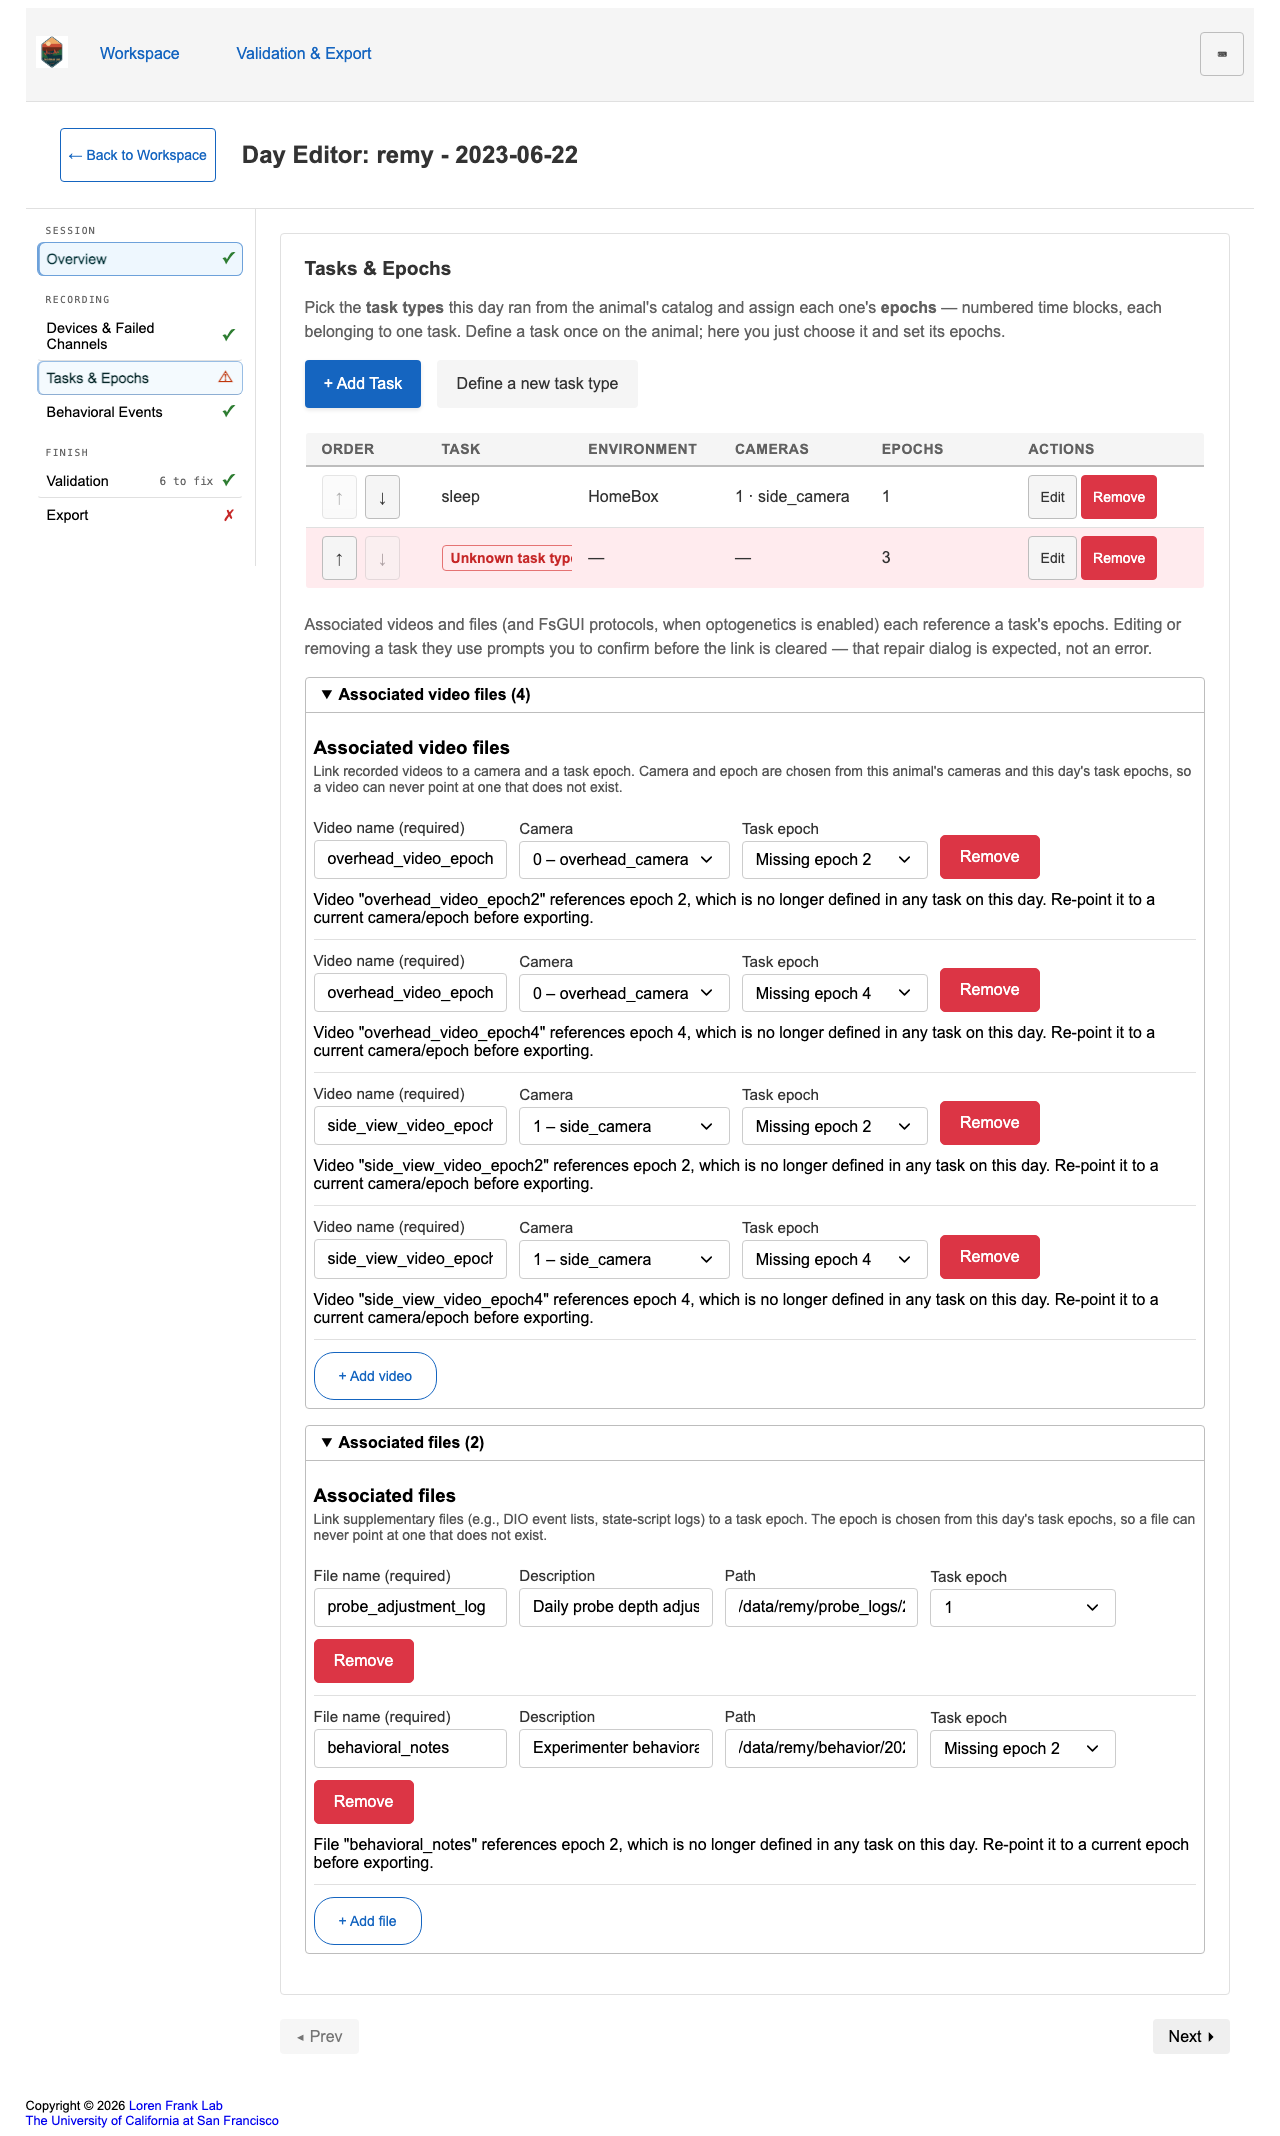
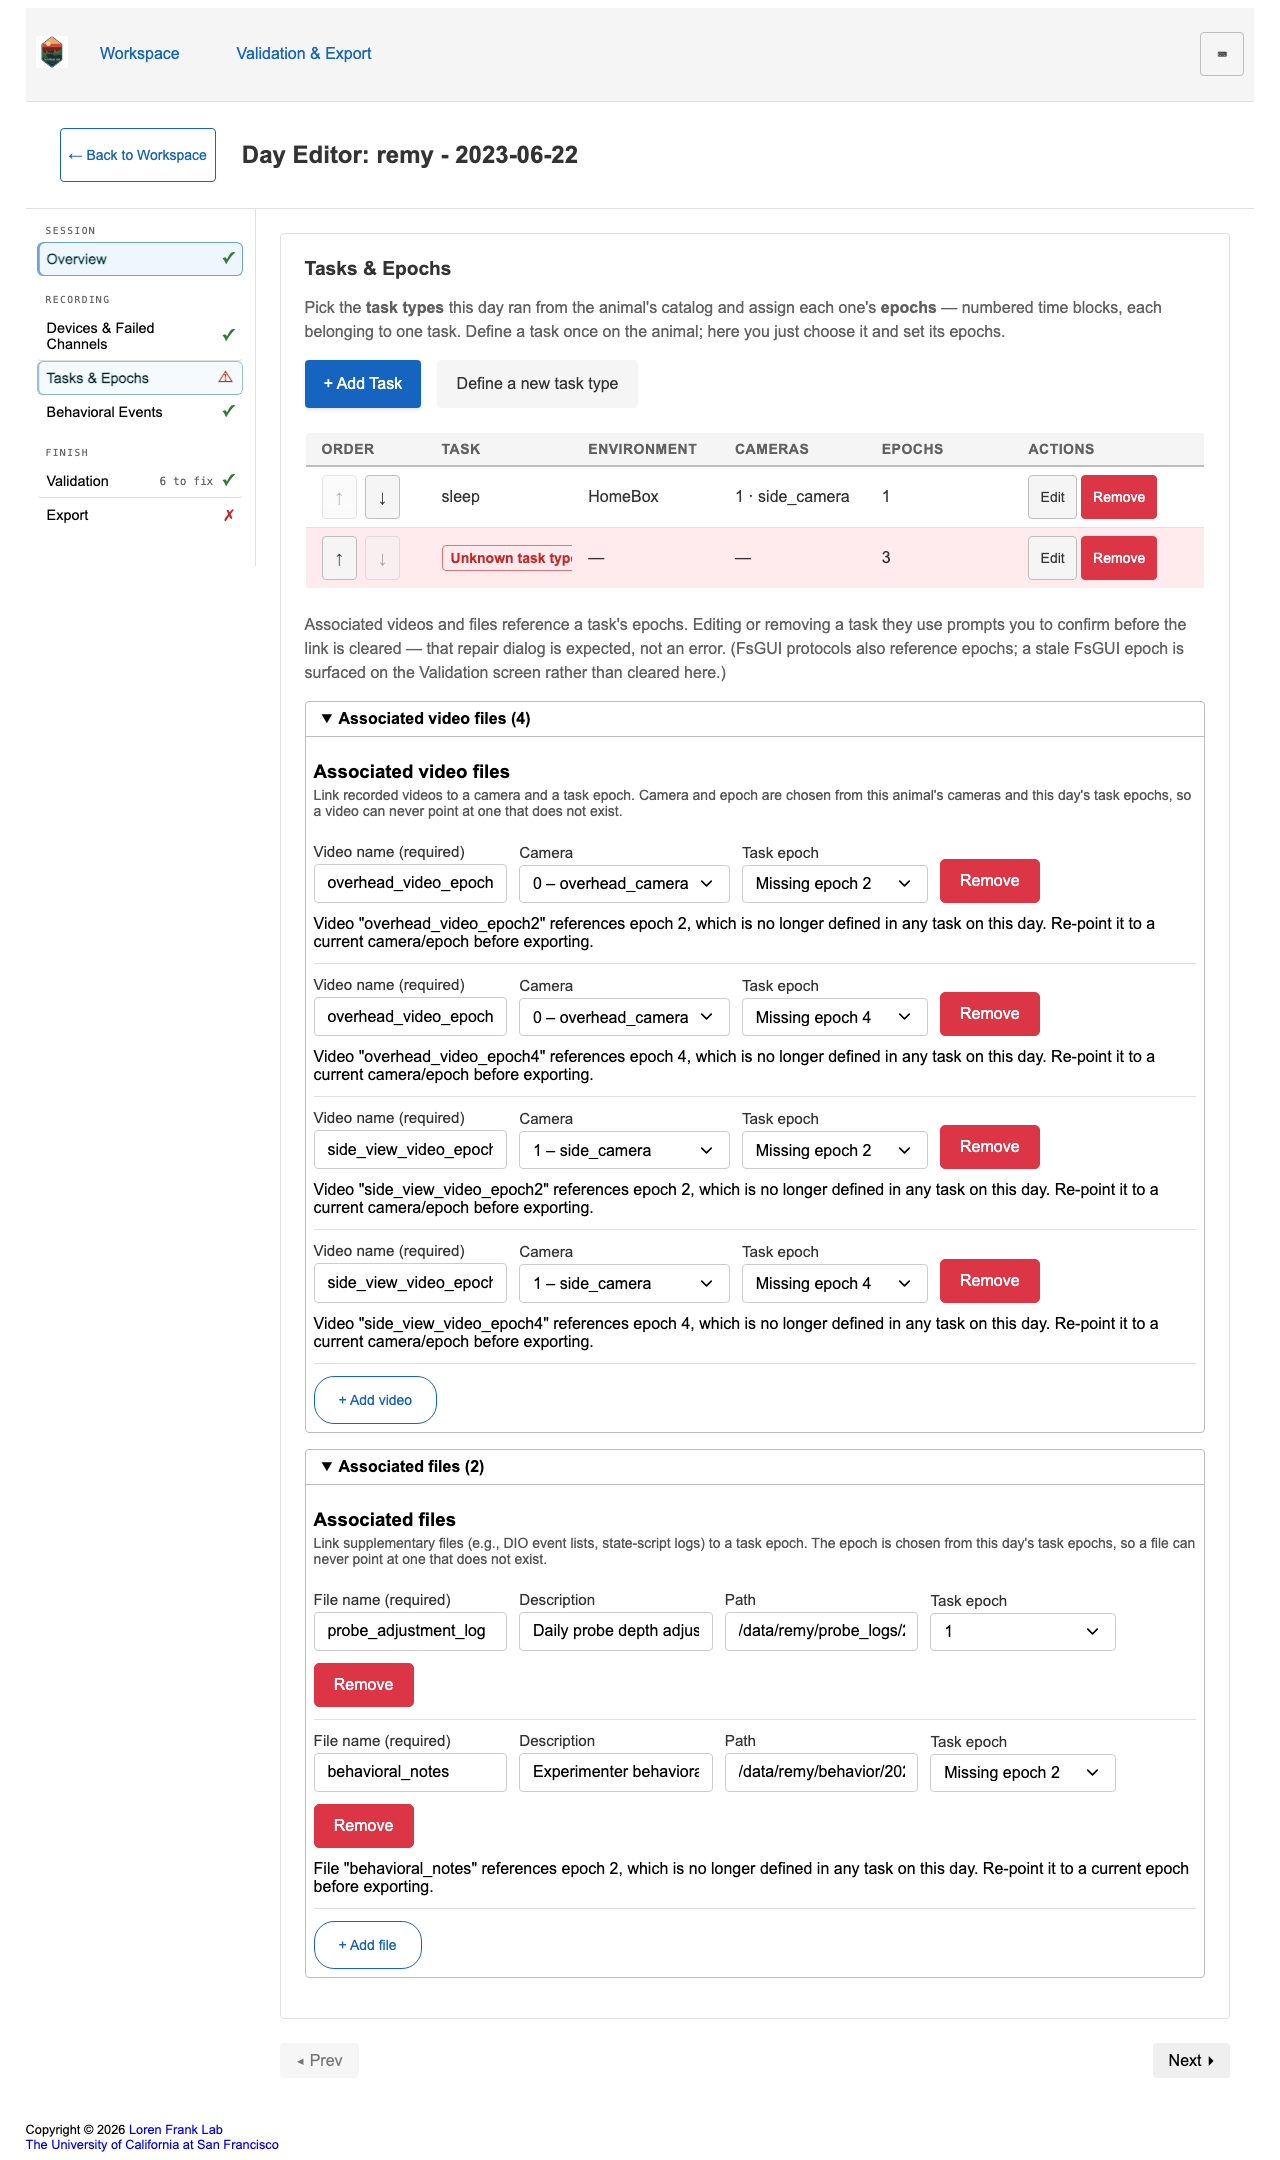
fix(8c): CRITICAL — applyAnimalUpdates was silently dropping taskTypes writes
The final-review silent-failure sweep found the exact SIBLING of the
applyDayUpdates/taskInstances bug: applyAnimalUpdates' allow-list had no
`taskTypes` branch, so EVERY Animal Task Types add/edit/delete — and the Day
Editor's inline→catalog conversion and quick-add — was silently dropped. On
reload the catalog was empty and days pointed at task types it never saved →
dangling_task_type_ref export blocks and tasks dropped from the exported YAML
(scientific metadata loss). The unit tests missed it (they mock onFieldUpdate);
the integration tests only exercised existing-type instance adds.

- Add the `taskTypes` branch to applyAnimalUpdates (`!== undefined` so
  delete-to-[] persists), mirroring the taskInstances fix.
- Regression tests: applyAnimalUpdates persists/clears taskTypes
  (workspaceTransitions); the Animal Task Types tab add persists through the
  REAL store seam (AnimalView.catalogTabs); editing an inline day persists the
  derived taskTypes to the animal AND taskInstances to the day
  (TasksEpochsStep.integration).
- Minor (review): narrowed the orphan-repair copy/CHANGELOG — repair-before-
  orphaning covers videos/files; FsGUI epoch orphans surface via Validation
  (unchanged from Phase 6). Documented the quick-add throwaway-id derivation.

Full suite 4775 pass; baselines byte-identical; typecheck/lint/build clean;
104 e2e pass.

diff --git a/src/pages/DayEditor/__tests__/TasksEpochsStep.integration.test.jsx b/src/pages/DayEditor/__tests__/TasksEpochsStep.integration.test.jsx
@@ -60,9 +60,23 @@ function renderStepper(overrides = {}) {
     <StoreProvider initialState={initialState}>
       <DayEditorStepper />
       <TasksInspector />
+      <CatalogProbe />
     </StoreProvider>
   );
   return { animal, day };
+}
+
+/** Live-store probe: the animal's task-type catalog + the day's instances (the persisted catalog). */
+function CatalogProbe() {
+  const { model } = useStoreContext();
+  const animal = model.workspace?.animals?.[ANIMAL_ID];
+  const day = model.workspace?.days?.[DAY_ID];
+  return (
+    <>
+      <pre data-testid="animal-task-types">{JSON.stringify(animal?.taskTypes ?? 'NONE')}</pre>
+      <pre data-testid="day-task-instances">{JSON.stringify(day?.taskInstances ?? 'NONE')}</pre>
+    </>
+  );
 }
 
 /**
@@ -140,5 +154,25 @@ describe('Tasks & Epochs step (integration)', () => {
     expect(readTasks()).toHaveLength(before + 1);
     // Picking an EXISTING type writes only the day's taskInstances — the input animal isn't mutated.
     expect(JSON.stringify(animal)).toBe(animalBefore);
+  });
+
+  it('conversion persists: editing an INLINE day commits the derived taskTypes to the animal AND taskInstances to the day', async () => {
+    const user = userEvent.setup();
+    // Default fixture: animal has NO taskTypes, day has one inline task 'sleep'. Editing derives the
+    // catalog and MUST persist both halves through the store — the path the applyAnimalUpdates
+    // silent-drop would have left as a dangling ref on reload.
+    renderStepper();
+    await goToEpochs(user);
+    expect(screen.getByTestId('animal-task-types').textContent).toContain('NONE');
+
+    // Remove the (derived) instance — the first edit commits the conversion.
+    await user.click(screen.getByRole('button', { name: /remove sleep from this day/i }));
+
+    const taskTypes = JSON.parse(screen.getByTestId('animal-task-types').textContent);
+    expect(taskTypes).toEqual([
+      expect.objectContaining({ id: 'tasktype-0', task_name: 'sleep' }),
+    ]);
+    // The day adopted the catalog: instances persisted ([] after the remove) and inline tasks retired.
+    expect(JSON.parse(screen.getByTestId('day-task-instances').textContent)).toEqual([]);
   });
 });

diff --git a/src/pages/AnimalView/__tests__/AnimalView.catalogTabs.test.jsx b/src/pages/AnimalView/__tests__/AnimalView.catalogTabs.test.jsx
@@ -134,6 +134,37 @@ describe('AnimalView — catalog containers persist edits to the store (GAP-A)',
     expect(devices).toHaveLength(1);
     expect(devices[0].name).toBe('SpikeGadgets_MCU');
   });
+
+  /** Live-store probe: exposes remy's task-type catalog for assertions. */
+  function TaskTypesProbe() {
+    const { model } = useStoreContext();
+    return (
+      <pre data-testid="task-types">{JSON.stringify(model.workspace.animals.remy?.taskTypes || [])}</pre>
+    );
+  }
+
+  it('writes a Task Types catalog add through the container to the store (real seam, not a mock)', async () => {
+    // The Task Types container writes through updateAnimal({ taskTypes }); the presentational tests
+    // use a MOCKED callback, so this pins the actual container→store persistence — a dropped
+    // applyAnimalUpdates branch (the taskInstances-class silent failure) would otherwise render green.
+    const user = userEvent.setup();
+    render(
+      <StoreProvider initialState={{ workspace: { animals: { remy: buildAnimal() }, days: {}, settings: {} } }}>
+        <AnimalView animalId="remy" tab="task-types" />
+        <TaskTypesProbe />
+      </StoreProvider>
+    );
+
+    await user.click(screen.getByRole('button', { name: /Add First Task Type/i }));
+    await user.type(screen.getByLabelText(/Task name/i), 'w-track');
+    await user.type(screen.getByLabelText('Description'), 'Continuous alternation');
+    await user.type(screen.getByLabelText('Environment'), 'elevated W-track');
+    await user.click(screen.getByRole('button', { name: /Save task type/i }));
+
+    const taskTypes = JSON.parse(screen.getByTestId('task-types').textContent);
+    expect(taskTypes).toHaveLength(1);
+    expect(taskTypes[0]).toMatchObject({ id: 'tasktype-0', task_name: 'w-track', task_description: 'Continuous alternation' });
+  });
 });
 
 describe('AnimalView — catalog tab scope descriptors (Phase 3-3)', () => {

diff --git a/src/pages/DayEditor/TasksEpochsStep.jsx b/src/pages/DayEditor/TasksEpochsStep.jsx
@@ -247,6 +247,11 @@ export default function TasksEpochsStep(props) {
       }));
       return;
     }
+    // Mint against the ANIMAL catalog (not the possibly-richer derived `view.taskTypes`): the new
+    // type is appended to the animal's real catalog, and `addTaskType` reuses this same id. For a
+    // derived day, `view.taskTypes`' ids are throwaway-until-committed — the reopened picker's
+    // `preselectTypeId` lands correctly because `resolveDayCatalogView` re-derives consistent ids
+    // after the animal write re-renders. (Do not persist `view.taskInstances` alongside this write.)
     const newId = nextTaskTypeId(animalTaskTypes);
     if (actions?.updateAnimal) {
       actions.updateAnimal(ownerKey, { taskTypes: addTaskType(animalTaskTypes, definition) });
@@ -341,9 +346,10 @@ export default function TasksEpochsStep(props) {
       <div className="tasks-optional-sections">
         {instances.length > 0 && (
           <p className="tasks-coupling-note">
-            Associated videos and files (and FsGUI protocols, when optogenetics is enabled) each
-            reference a task&apos;s epochs. Editing or removing a task they use prompts you to confirm
-            before the link is cleared — that repair dialog is expected, not an error.
+            Associated videos and files reference a task&apos;s epochs. Editing or removing a task they
+            use prompts you to confirm before the link is cleared — that repair dialog is expected, not
+            an error. (FsGUI protocols also reference epochs; a stale FsGUI epoch is surfaced on the
+            Validation screen rather than cleared here.)
           </p>
         )}
 

diff --git a/src/state/__tests__/workspaceTransitions.test.js b/src/state/__tests__/workspaceTransitions.test.js
@@ -78,6 +78,19 @@ describe('applyAnimalUpdates', () => {
     const updated = applyAnimalUpdates(animal, { data_acq_device: acq }, NOW);
     expect(updated.devices.data_acq_device).toEqual(acq);
   });
+
+  it('persists a taskTypes write (the define-once catalog; sibling of applyDayUpdates.taskInstances)', () => {
+    // Without this branch the Animal Task Types tab AND the Day Editor's inline→catalog conversion /
+    // quick-add silently drop their writes — days then point at task types the catalog never saved.
+    const animal = { id: 'remy', taskTypes: [], configurationHistory: [] };
+    const taskTypes = [{ id: 'tasktype-0', task_name: 'w-track', task_description: 'Alt', task_environment: 'W', camera_id: [0] }];
+    expect(applyAnimalUpdates(animal, { taskTypes }, NOW).taskTypes).toEqual(taskTypes);
+  });
+
+  it('clears taskTypes to [] (deleting the last task type must persist)', () => {
+    const animal = { id: 'remy', taskTypes: [{ id: 'tasktype-0', task_name: 'sleep' }], configurationHistory: [] };
+    expect(applyAnimalUpdates(animal, { taskTypes: [] }, NOW).taskTypes).toEqual([]);
+  });
 });
 
 describe('addConfigurationSnapshotToAnimal', () => {

diff --git a/src/state/workspaceTransitions.js b/src/state/workspaceTransitions.js
@@ -104,6 +104,14 @@ export function applyAnimalUpdates(animal, updates, now) {
   if (updates.behavioral_events) {
     updated.behavioral_events = updates.behavioral_events;
   }
+  // Task-type catalog (Phase 8C): the animal's define-once catalog that day `taskInstances` reference
+  // (read by `mergeDayMetadata`'s `resolveDayTasks`). The sibling of `applyDayUpdates`' taskInstances
+  // branch — without it every Task Types add/edit/delete AND the Day Editor's inline→catalog
+  // conversion / quick-add is silently dropped, leaving days pointing at task types the catalog never
+  // saved. `!== undefined` so a delete-last-type (`taskTypes: []`) persists, never a silent no-op.
+  if (updates.taskTypes !== undefined) {
+    updated.taskTypes = updates.taskTypes;
+  }
   // `!== undefined` (not truthiness) so an explicit `null` CLEARS opto (editor disable).
   if (updates.optogenetics !== undefined) {
     updated.optogenetics = updates.optogenetics;

diff --git a/CHANGELOG.md b/CHANGELOG.md
@@ -51,7 +51,9 @@ and this project adheres to [Semantic Versioning](https://semver.org/spec/v2.0.0
     retyping a task per day. An inline/imported/legacy day is converted to the catalog on first edit
     ([dayTaskCatalog.ts](src/state/dayTaskCatalog.ts)); an inline "Define a new task type" quick-add
     adds a missing type to the animal catalog without leaving day entry. Repair-before-orphaning of
-    associated videos/files/FsGUI references is preserved (re-keyed off the resolved epochs).
+    associated **video/file** references is preserved (re-keyed off the resolved instance epochs); a
+    stale FsGUI epoch surfaces on the Validation screen (unchanged from Phase 6), not via the
+    confirm-and-clear dialog.
   - **Fix (silent drop):** `applyDayUpdates` now persists `day.taskInstances`
     ([workspaceTransitions.js](src/state/workspaceTransitions.js)) — without it the store's day
     allow-list silently dropped every Tasks & Epochs edit.
